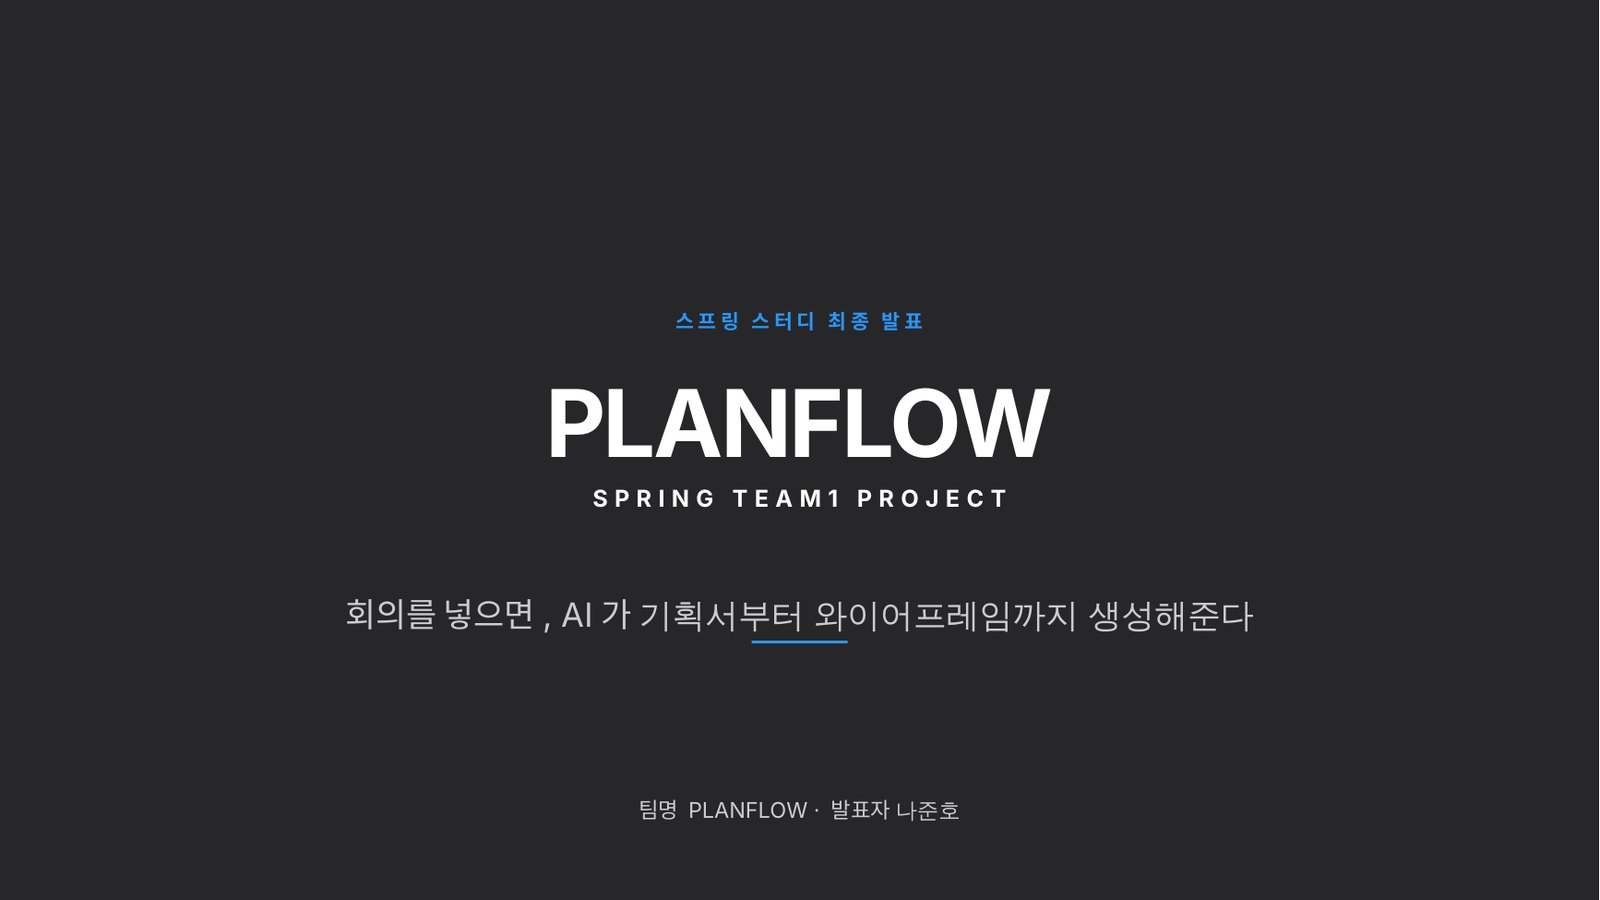
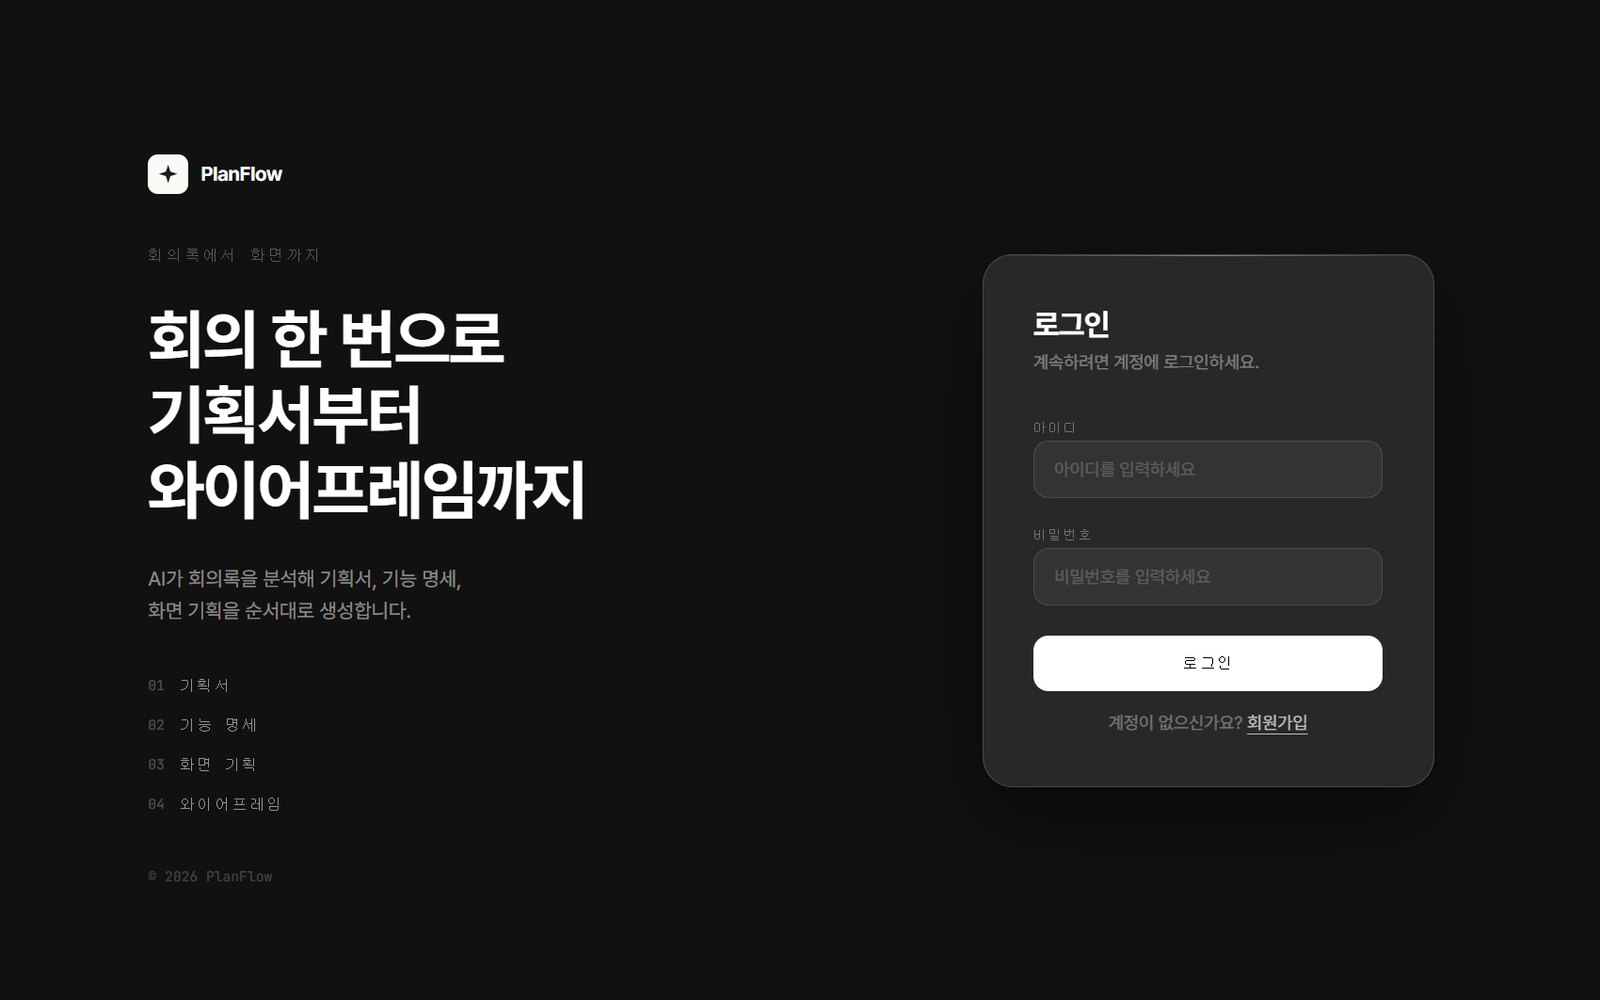
Feat: PLANFLOW 실제 서비스 화면 추가 (이메일 블러 처리)
Claude-Session: https://claude.ai/code/session_01HvpZh658Gu4NrGESaWv9Dm

diff --git a/index.html b/index.html
@@ -346,7 +346,7 @@ const projects = [
            'Hashed passwords with BCrypt',
            'Wrote a SessionAuthFilter that authenticates every request from the session cookie and plugs into the team\'s existing @LoginUser structure, so other APIs kept working without changes'],
    outcome:'Working with senior teammates, I saw how writing specs, ERD and API docs before coding kept the team aligned and cut rework. Swapping a mock for real authentication taught me to design a secure login flow while keeping the interface the rest of the team already depended on stable.',
-   video:'', images:['img/planflow/auth-slide.jpg','img/planflow/pipeline-slide.jpg','img/planflow/1-login.png','img/planflow/2-dashboard.png','img/planflow/3-ai-planning.png','img/planflow/4-screen-spec.png','img/planflow/5-wireframe.png'],
+   video:'', images:['img/planflow/1-login.jpg','img/planflow/2-dashboard.jpg','img/planflow/3-ai-planning.jpg','img/planflow/4-screen-spec.jpg','img/planflow/auth-slide.jpg','img/planflow/pipeline-slide.jpg'],
    links:[{label:'GitHub (Backend)', url:'https://github.com/kwang-i-coder/2026-spring-team1'},{label:'GitHub (Frontend)', url:'https://github.com/xihxxn/2026-spring-team1-FE'},{label:'Final deck (PDF)', url:'media/planflow-presentation.pdf'}]},
   {id:'lookitup', cat:['planning'], title:'LookItUp', year:'Jul 2026', art:'lookitup', cover:'img/lookitup/cover.jpg',
    status:['Best Technical Project','award'], tags:['Global AI Hackathon','EPITECH Paris','Product Planning'],

diff --git a/README.md b/README.md
@@ -13,12 +13,7 @@ Live: https://wanimetro.github.io/portfolio/
 
 ```
 img/sagye/cover.jpg  (+ screens.jpg)
-img/planflow/cover.png
-img/planflow/1-login.png
-img/planflow/2-dashboard.png
-img/planflow/3-ai-planning.png
-img/planflow/4-screen-spec.png
-img/planflow/5-wireframe.png
+img/planflow/cover.jpg (+ 1-login, 2-dashboard, 3-ai-planning, 4-screen-spec .jpg)
 img/lookitup/cover.jpg
 img/lookitup/results.jpg
 media/lookitup-demo.mp4           (YouTube 링크로 대체 가능)
